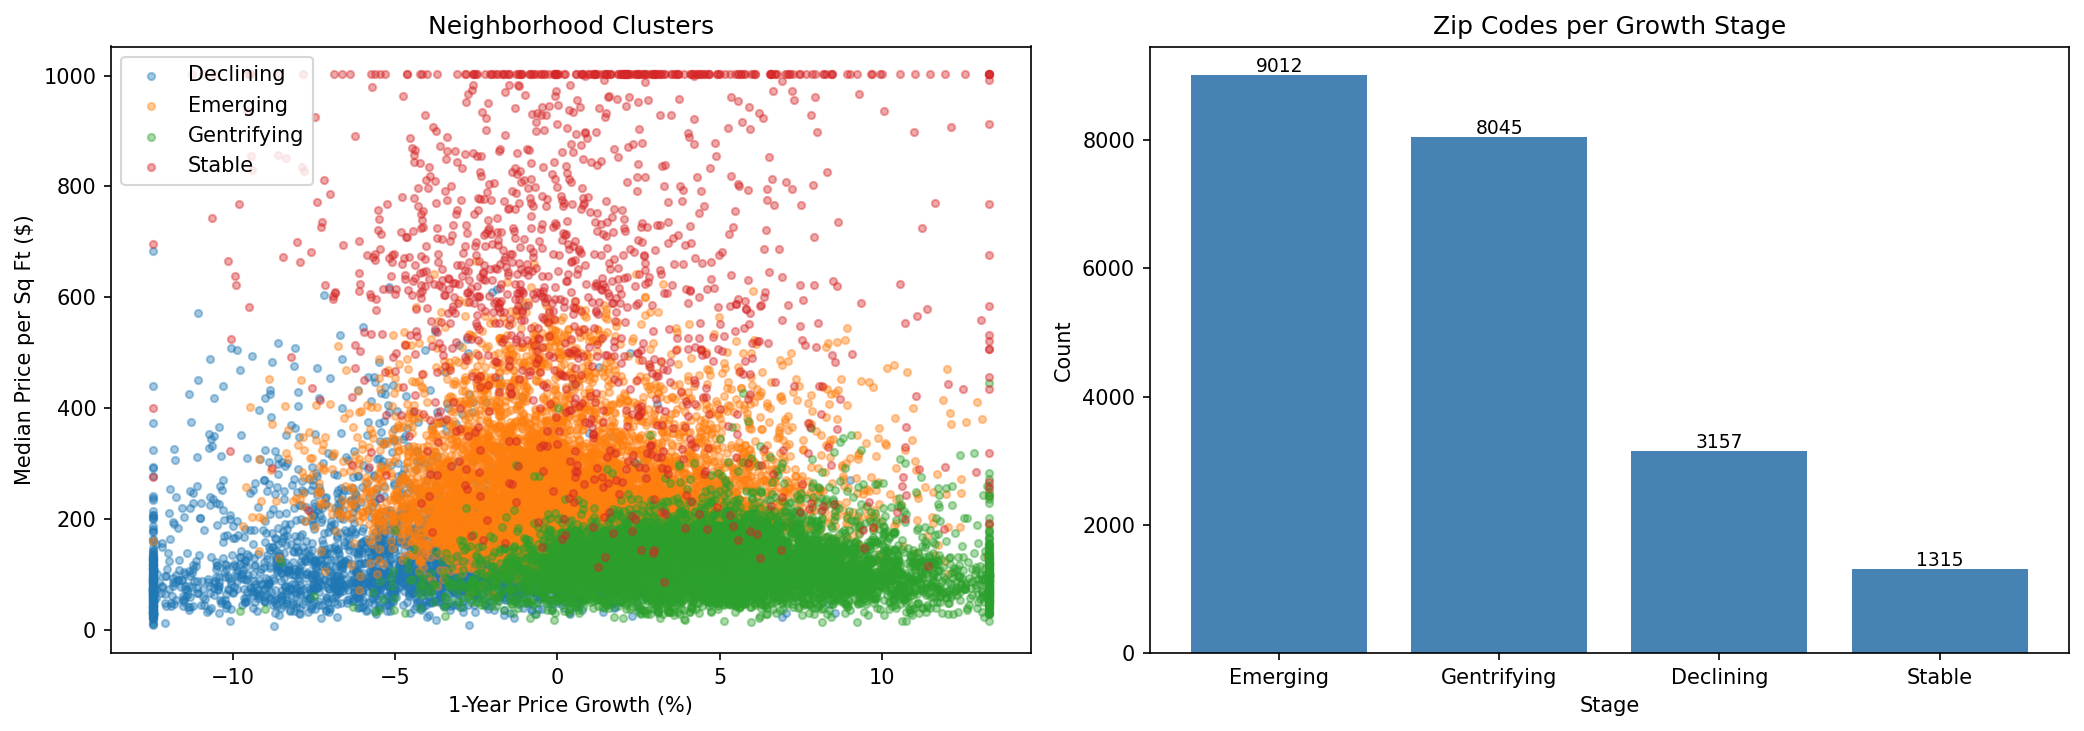
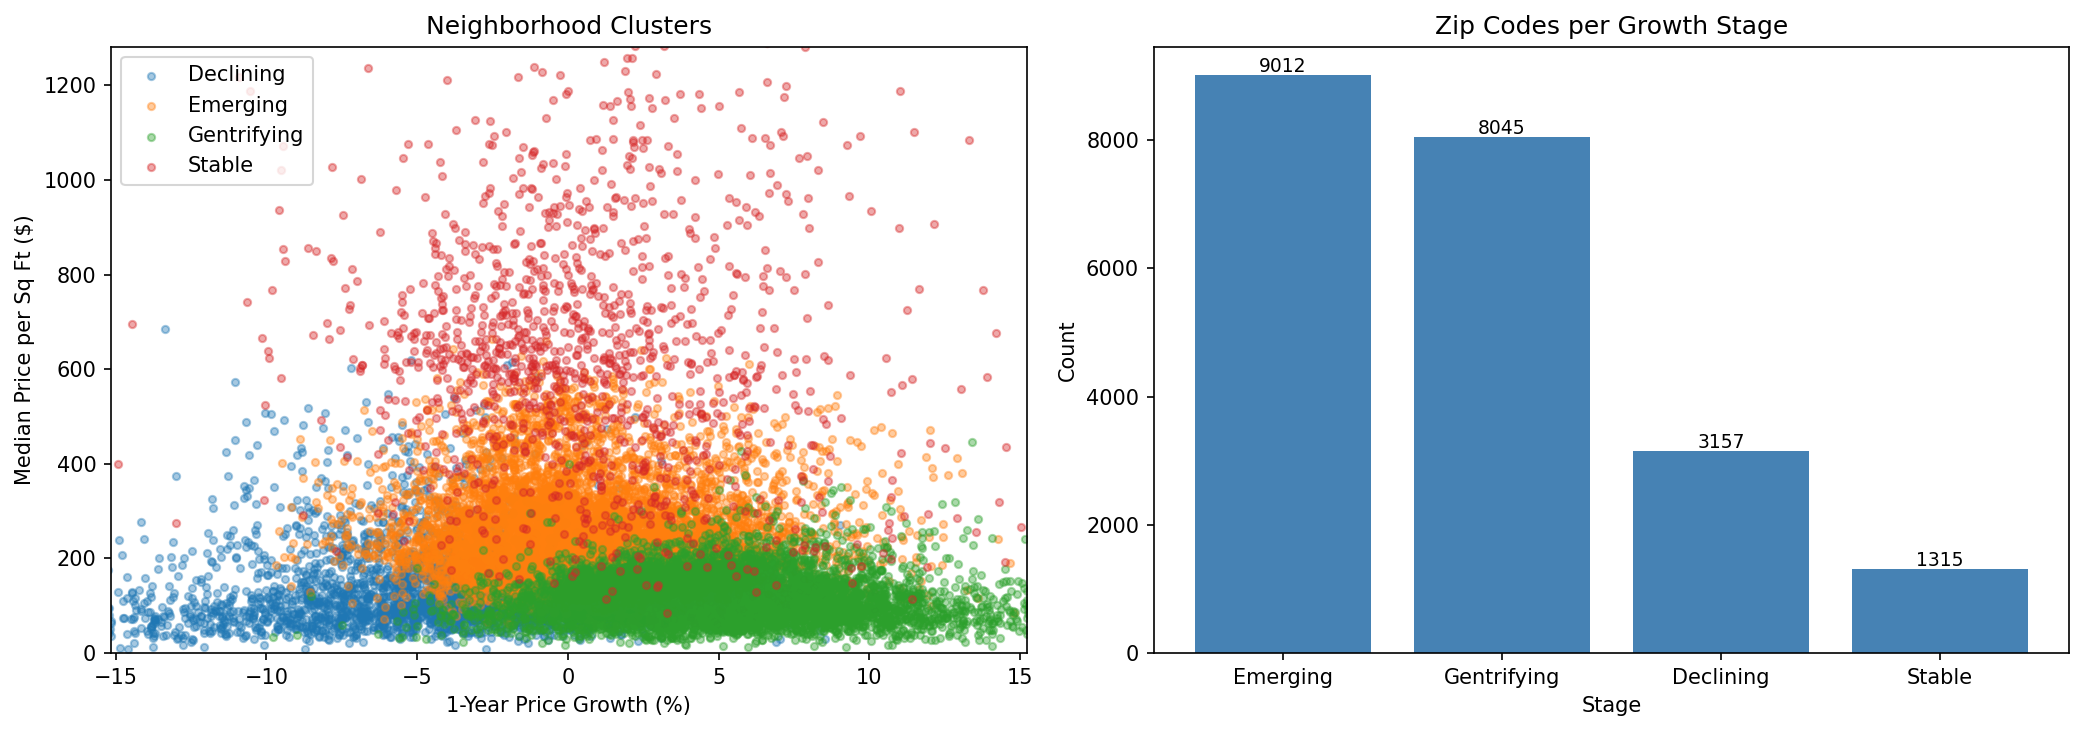
Fix cluster scatter plot: use axis limits instead of data clipping

diff --git a/src/clustering.py b/src/clustering.py
@@ -113,19 +113,22 @@ def fit_clusters(hood, X_scaled, k=4):
 
 
 def plot_clusters(hood, save_path=None):
-    # Clip axes to avoid extreme outliers dominating the scatter
-    price_sqft_99 = hood['median_price_sqft'].quantile(0.99)
-    growth_1yr_1  = hood['growth_1yr'].quantile(0.01)
-    growth_1yr_99 = hood['growth_1yr'].quantile(0.99)
+    # Use axis limits (not data clipping) so outliers fall off the edge
+    # without creating artificial pile-ups at the boundary
+    x_lo = hood['growth_1yr'].quantile(0.005) * 100
+    x_hi = hood['growth_1yr'].quantile(0.995) * 100
+    y_hi = hood['median_price_sqft'].quantile(0.995)
 
     fig, axes = plt.subplots(1, 2, figsize=(14, 5))
 
     for label, grp in hood.groupby('cluster_label'):
         axes[0].scatter(
-            grp['growth_1yr'].clip(growth_1yr_1, growth_1yr_99) * 100,
-            grp['median_price_sqft'].clip(upper=price_sqft_99),
+            grp['growth_1yr'] * 100,
+            grp['median_price_sqft'],
             alpha=0.4, s=12, label=label
         )
+    axes[0].set_xlim(x_lo, x_hi)
+    axes[0].set_ylim(0, y_hi)
     axes[0].set(
         title='Neighborhood Clusters',
         xlabel='1-Year Price Growth (%)',